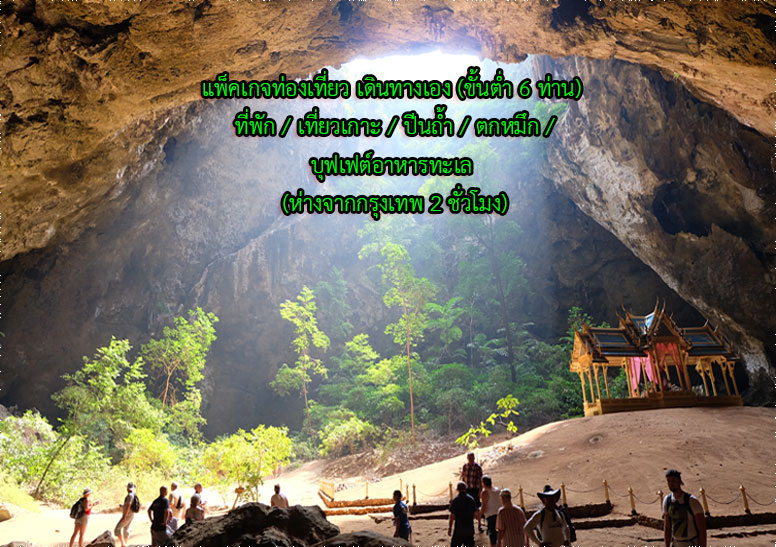
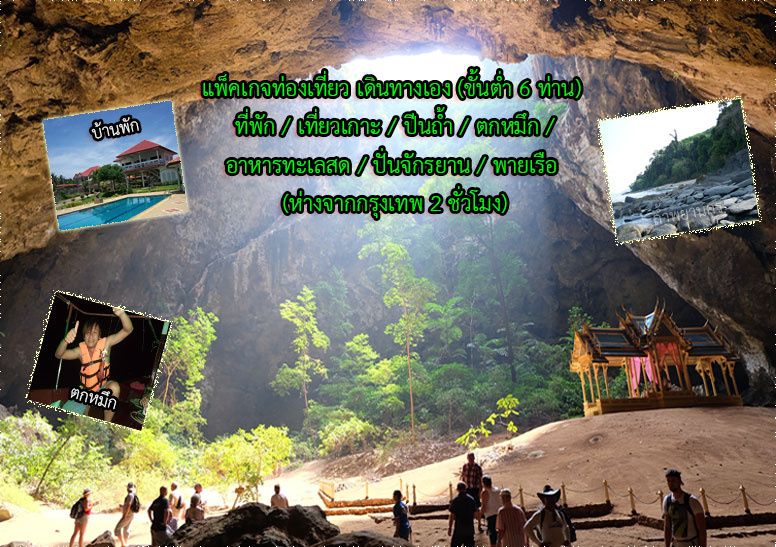
multi link on img

diff --git a/pages/packages.html b/pages/packages.html
@@ -14,7 +14,7 @@ Licence URI: http://www.os-templates.com/template-terms
         <link rel="stylesheet" href="https://maxcdn.bootstrapcdn.com/bootstrap/3.3.7/css/bootstrap.min.css" integrity="sha384-BVYiiSIFeK1dGmJRAkycuHAHRg32OmUcww7on3RYdg4Va+PmSTsz/K68vbdEjh4u" crossorigin="anonymous">
         <link href="../layout/styles/shop-homepage.css" rel="stylesheet" type="text/css"/>
         <link href="../layout/styles/layout.css" rel="stylesheet" type="text/css" media="all">
-        
+
         <link rel="shortcut icon" href="../images/logo.png" type="image/x-icon">
         <link rel="icon" href="../images/logo.png" type="image/x-icon">
     </head>
@@ -40,9 +40,9 @@ Licence URI: http://www.os-templates.com/template-terms
                         <li><a href="https://www.facebook.com/%E0%B8%9A%E0%B9%89%E0%B8%B2%E0%B8%99%E0%B9%82%E0%B8%A5%E0%B8%88%E0%B8%99%E0%B8%B2%E0%B8%99%E0%B8%99%E0%B8%97%E0%B9%8C-%E0%B9%82%E0%B8%AE%E0%B8%A1%E0%B8%AA%E0%B9%80%E0%B8%95%E0%B8%A2%E0%B9%8C-1651416238489544/" target="_blank"><img src="../images/demo/facebook.ico" style="width: 50px; height: 50px; border: none;"><br><strong> Facebook:</strong><br>
                                 บ้านโลจนานนท์ โฮมสเตย์</a></li>
                         <li><a href="http://line.me/ti/p/~motoy130" target="_blank"><img src="../images/demo/line.ico" style="width: 50px; height: 50px; border: none;"><br><strong> Line:</strong><br>
-                            motoy130</a></li>
+                                motoy130</a></li>
                         <li><a href="http://instagram.com/baanlojananont_homestay" target="_blank"><img src="../images/demo/instagram.ico" style="width: 50px; height: 50px; border: none;"><br><strong> Instagram:</strong><br>
-                            baanlojananont_homestay</a></li>
+                                baanlojananont_homestay</a></li>
                     </ul>
                 </div>
                 <!-- ################################################################################################ -->
@@ -120,14 +120,21 @@ Licence URI: http://www.os-templates.com/template-terms
                 <div class="content three_quarter"> 
                     <!-- ################################################################################################ -->
 
-                    
+
 
                     <div class="group">
-                        
-                        <img src="../images/packages/main_packages.jpg" alt=""/>
-                        
+
+                        <img src="../images/packages/main_packages.jpg" alt="" usemap="#logos"/>
+
+                        <map name="logos">
+                            <area shape="rect" coords="45,105,190,225" href="../pages/p_package1.html" title="บ้านพัก" alt="บ้านพัก" />
+                            <area shape="rect" coords="30,190,170,430" href="../pages/p_package2.html" title="ตกหมึก" alt="ตกหมึก" />
+                            <area shape="rect" coords="600,100,760,245" href="../pages/p_package3.html" title="ถ้ำพยานคร" alt="ถ้ำพยานคร" />
+                            <area shape="default" nohref="nohref" title="Default" alt="Default"/>
+                        </map>
+
                     </div>
-                    
+
                     <!-- ################################################################################################ -->
                     <!-- / main body -->
                     <div class="clear"></div>
